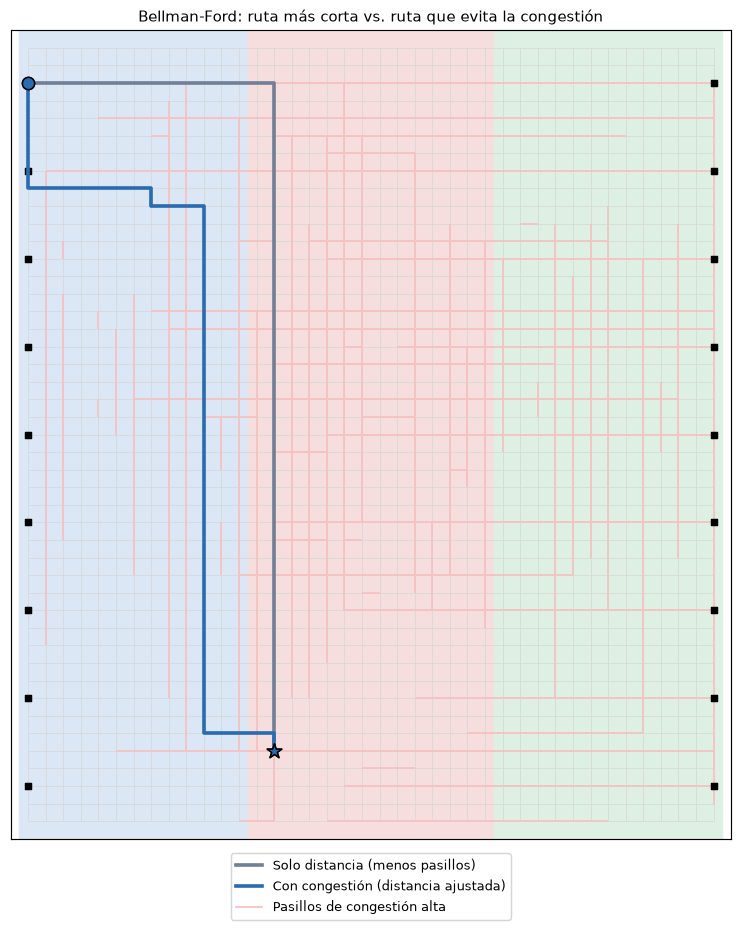
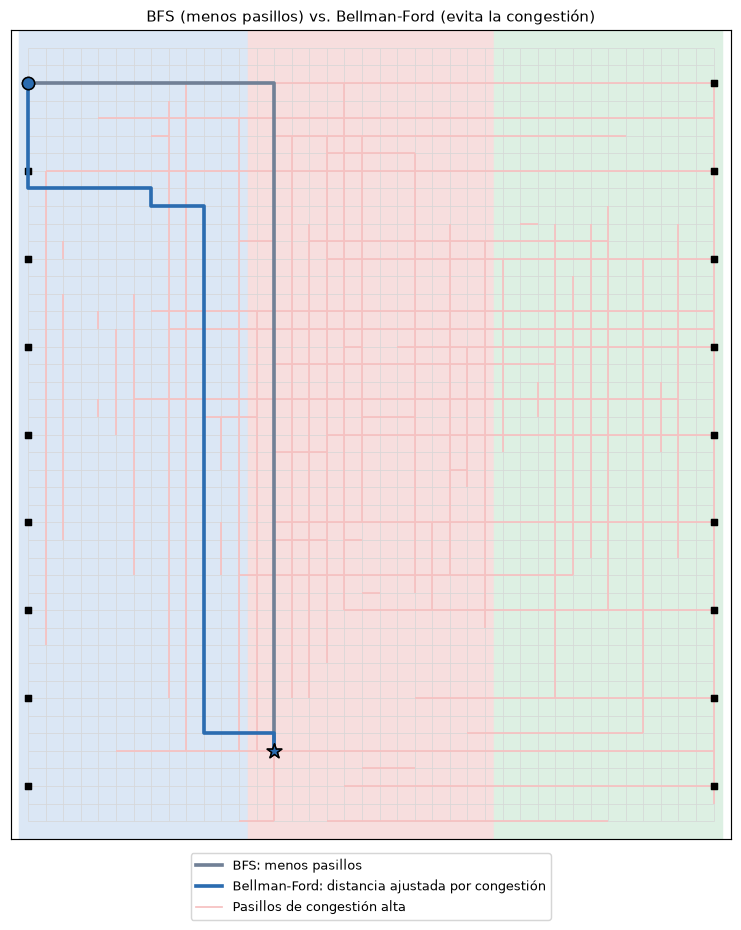
feat(demo): compare DFS vs Edmonds-Karp and BFS vs Bellman-Ford

Changed region(s): [[0.2483, 0.9043, 0.7449, 0.9978], [0.1862, 0.0, 0.807, 0.0312]]

diff --git a/scripts/demo.py b/scripts/demo.py
@@ -28,8 +28,8 @@ sys.path.insert(0, str(RAIZ / "scripts"))
 import matplotlib  # noqa: E402
 
 from kivaflow import config, grafo  # noqa: E402
-from kivaflow.caminos import bellman_ford, camino, camino_fw, floyd_warshall  # noqa: E402
-from kivaflow.flujo import ford_fulkerson, red  # noqa: E402
+from kivaflow.caminos import bellman_ford, bfs, camino, camino_fw, floyd_warshall  # noqa: E402
+from kivaflow.flujo import edmonds_karp, ford_fulkerson, red  # noqa: E402
 from kivaflow.mapa import COLOR_NIVEL, fondo, lineas, posiciones, recorrido  # noqa: E402
 from kivaflow.mochila import mochila_01  # noqa: E402
 from kivaflow.mst import fuerza_bruta, kruskal, prim  # noqa: E402
@@ -132,16 +132,19 @@ def demo_fuerza_bruta(d, mostrar):
 
 # ---------------------------------------------------------------------------- flujo
 def demo_flujo(d, mostrar):
-    titulo("Flujo máximo con Ford-Fulkerson: Recepción -> Despacho (hoja 11, ejercicio 2)")
+    titulo("Flujo máximo: Ford-Fulkerson (DFS) y Edmonds-Karp (BFS), Recepción -> Despacho (hoja 11)")
     cap_nivel = config.CAPACIDAD_OPERARIOS_MIN
     print("Capacidad de cada pasillo (operarios/min, en cada sentido): "
           + ", ".join(f"{n} = {c}" for n, c in cap_nivel.items()))
     print("Fuente: toda la zona de Recepción; sumidero: toda la zona de Despacho (superfuente y supersumidero).")
     cap = red(d.filas, cap_nivel, d.zona("Rec"), d.zona("Emp"))
-    t0 = time.perf_counter()
-    f = ford_fulkerson(cap)
-    ms = (time.perf_counter() - t0) * 1000
-    print(f"\n{'Iter.':>5}  {'Cuello':>6}  {'Flujo acumulado':>15}  Camino aumentante (DFS)")
+    res = {}
+    for nombre, algoritmo in (("Ford-Fulkerson (DFS)", ford_fulkerson), ("Edmonds-Karp (BFS)", edmonds_karp)):
+        t0 = time.perf_counter()
+        res[nombre] = (algoritmo(cap), (time.perf_counter() - t0) * 1000)
+    f, _ = res["Edmonds-Karp (BFS)"]
+    print("\nEdmonds-Karp, iteración por iteración (BFS toma siempre el camino con menos arcos):")
+    print(f"{'Iter.':>5}  {'Cuello':>6}  {'Flujo acumulado':>15}  Camino aumentante")
     acumulado = 0
     for i, (c, cuello) in enumerate(f.caminos, 1):
         acumulado += cuello
@@ -150,8 +153,13 @@ def demo_flujo(d, mostrar):
             print(f"{i:>5}  {cuello:>6}  {acumulado:>15}  {interior[0]} -> ... -> {interior[-1]} ({len(interior)} ubicaciones)")
         elif i == 9:
             print(f"{'...':>5}")
-    print(f"\nFlujo máximo: {f.valor} operarios/min, con {len(f.caminos)} caminos aumentantes en {ms:.0f} ms.")
-    print(f"Veces que un camino usó un arco inverso (cancelar flujo previo): {f.usos_inversos}.")
+    print(f"\n{'Variante':<22}{'Flujo':>6}{'Caminos':>9}{'Largo medio':>13}{'Arcos inversos':>16}{'ms':>7}")
+    for nombre, (r, ms) in res.items():
+        largo = sum(len(c) - 3 for c, _ in r.caminos) / len(r.caminos)
+        print(f"{nombre:<22}{r.valor:>6}{len(r.caminos):>9}{largo:>13.1f}{r.usos_inversos:>16}{ms:>7.0f}")
+    print("Las dos llegan al mismo flujo máximo: el método es el mismo y solo cambia cómo se busca el camino.")
+    print("Con BFS el número de iteraciones queda acotado por O(V · E), sin depender de las capacidades.")
+    print(f"\nFlujo máximo: {f.valor} operarios/min.")
     cols = Counter((d.nodos[u]["Columna"], d.nodos[v]["Columna"]) for u, v, _ in f.corte)
     print(f"Corte mínimo: {len(f.corte)} pasillos, capacidad total {sum(c for *_, c in f.corte)} "
           f"(= flujo máximo, teorema flujo máximo / corte mínimo).")
@@ -166,44 +174,53 @@ def demo_flujo(d, mostrar):
         recorrido(ax, d.pos, c[1:-1], color="#38a169", ancho=1.2)
     lineas(ax, d.pos, f.corte, color="#e53e3e", ancho=3.5, z=5)
     ax.plot([], [], color="#e53e3e", linewidth=3.5, label="Pasillos del corte mínimo")
-    ax.plot([], [], color="#38a169", linewidth=1.2, label="Primeros 5 caminos aumentantes")
+    ax.plot([], [], color="#38a169", linewidth=1.2, label="Primeros 5 caminos aumentantes (Edmonds-Karp)")
     ax.legend(loc="upper center", bbox_to_anchor=(0.5, -0.01), fontsize=9)
     guardar(fig, "flujo_maximo.png", mostrar)
 
 
 # ----------------------------------------------------------------------------- ruta
 def demo_ruta(d, mostrar):
-    titulo("Ruta de un operario con Bellman-Ford (hoja 13, ejercicios 1 y 3)")
+    titulo("Ruta de un operario: BFS (línea base) vs. Bellman-Ford con congestión (hoja 13)")
     origen = "02-00"  # primer muelle de Recepción
     destino = next(k for k, n in d.nodos.items() if n["SKU"] == "SKU0001")  # el producto más pedido
     print(f"Origen: muelle {origen}. Destino: rack {destino} (SKU0001, el producto más pedido).")
-    rutas = {}
-    for peso, nombre in (("Distancia_m", "solo distancia"), ("Distancia_Ajustada_m", "con congestión")):
-        t0 = time.perf_counter()
-        b = bellman_ford(list(d.nodos), d.arcos(peso), origen)
-        ms = (time.perf_counter() - t0) * 1000
-        c = camino(b.padre, destino)
+
+    def describir(c):
         niveles = Counter(d.nivel[(u, v)] for u, v in zip(c, c[1:]))
-        metros = 1.2 * (len(c) - 1)
         ajustado = sum(1.2 * config.FACTOR_CONGESTION[d.nivel[(u, v)]] for u, v in zip(c, c[1:]))
-        rutas[nombre] = c
-        print(f"\nPeso «{peso}» ({nombre}):")
-        print(f"  Rondas de relajación: {b.rondas} de V - 1 = {len(d.nodos) - 1} posibles (se detiene cuando una ronda no mejora nada)")
-        print(f"  Relajaciones: {b.relajaciones} · ¿ciclo negativo?: {'sí' if b.ciclo_negativo else 'no'} · {ms:.0f} ms")
-        print(f"  Ruta: {len(c) - 1} pasillos = {metros:.1f} m reales, {ajustado:.2f} m ajustados, "
+        print(f"  Ruta: {len(c) - 1} pasillos = {1.2 * (len(c) - 1):.1f} m reales, {ajustado:.2f} m ajustados, "
               f"{ajustado / config.VELOCIDAD_M_S:.0f} s a {config.VELOCIDAD_M_S} m/s con congestión")
         print("  Pasillos por congestión: " + ", ".join(f"{n} {niveles[n]}" for n in ("Baja", "Media", "Alta")))
+
+    rutas = {}
+    t0 = time.perf_counter()
+    dist, padre = bfs(list(d.nodos), d.arcos("Distancia_m"), origen)
+    ms = (time.perf_counter() - t0) * 1000
+    rutas["bfs"] = camino(padre, destino)
+    print(f"\nBFS (cada pasillo vale 1; no ve la congestión) · O(V + E) · {ms:.0f} ms:")
+    print(f"  Ubicaciones alcanzadas: {len(dist)} de {len(d.nodos)}")
+    describir(rutas["bfs"])
+
+    t0 = time.perf_counter()
+    b = bellman_ford(list(d.nodos), d.arcos("Distancia_Ajustada_m"), origen)
+    ms = (time.perf_counter() - t0) * 1000
+    rutas["bf"] = camino(b.padre, destino)
+    print(f"\nBellman-Ford con «Distancia_Ajustada_m» · O(V · E) · {ms:.0f} ms:")
+    print(f"  Rondas de relajación: {b.rondas} de V - 1 = {len(d.nodos) - 1} posibles (se detiene cuando una ronda no mejora nada)")
+    print(f"  Relajaciones: {b.relajaciones} · ¿ciclo negativo?: {'sí' if b.ciclo_negativo else 'no'}")
+    describir(rutas["bf"])
 
     print("\nCiclo negativo (ejercicio 3): con pesos positivos no puede haber. Prueba con un ciclo de 3 nodos:")
     prueba = bellman_ford(["A", "B", "C"], [("A", "B", 1), ("B", "C", -2), ("C", "A", -1)], "A")
     print(f"  A->B 1, B->C -2, C->A -1 (suma -2): ¿ciclo negativo? {'sí' if prueba.ciclo_negativo else 'no'}")
 
     fig, ax = plt.subplots(figsize=(9, 10))
-    fondo(ax, d.nodos, d.pos, "Bellman-Ford: ruta más corta vs. ruta que evita la congestión", grilla=d.aristas())
+    fondo(ax, d.nodos, d.pos, "BFS (menos pasillos) vs. Bellman-Ford (evita la congestión)", grilla=d.aristas())
     altas = [(u, v) for (u, v), n in d.nivel.items() if n == "Alta" and u < v]
     lineas(ax, d.pos, altas, color="#f6c1c1", ancho=1.2)
-    recorrido(ax, d.pos, rutas["solo distancia"], "#718096", etiqueta="Solo distancia (menos pasillos)")
-    recorrido(ax, d.pos, rutas["con congestión"], "#2b6cb0", etiqueta="Con congestión (distancia ajustada)")
+    recorrido(ax, d.pos, rutas["bfs"], "#718096", etiqueta="BFS: menos pasillos")
+    recorrido(ax, d.pos, rutas["bf"], "#2b6cb0", etiqueta="Bellman-Ford: distancia ajustada por congestión")
     ax.plot([], [], color="#f6c1c1", linewidth=1.2, label="Pasillos de congestión alta")
     ax.legend(loc="upper center", bbox_to_anchor=(0.5, -0.01), fontsize=9)
     guardar(fig, "ruta_bellman_ford.png", mostrar)

diff --git a/README.md b/README.md
@@ -13,14 +13,14 @@ Proyecto del curso **Complejidad Algorítmica (1ACC0184)**, Universidad Peruana 
 | Dataset (layout + tráfico simulado) | ✅ reproducible, con tests |
 | Pedidos reales de Instacart | 🧪 script listo; falta correrlo con los datos de Kaggle |
 | MST: Kruskal (con UFDS) y Prim | ✅ a mano, comparados con NetworkX · demo: `python scripts/demo_mst.py` |
-| MST por fuerza bruta, Ford-Fulkerson, Bellman-Ford, Floyd-Warshall, mochila 0/1 | ✅ a mano, con tests · demo: `python scripts/demo.py todo` |
+| BFS, Bellman-Ford, Ford-Fulkerson y Edmonds-Karp, Floyd-Warshall, MST por fuerza bruta, mochila 0/1 | ✅ a mano, con tests · demo: `python scripts/demo.py todo` |
 | GUI en Streamlit (con enlace público) | 🔜 |
 
 ## Ramas
 
 | Rama | Qué tiene |
 |---|---|
-| `hito2` | Avance paso a paso desde el TB1: dataset, MST (Kruskal y Prim) y los algoritmos de la unidad 2 (flujo, Bellman-Ford, Floyd-Warshall, mochila), con demo en matplotlib. Va con el informe del hito 2 |
+| `hito2` | Avance paso a paso desde el TB1: dataset, MST (Kruskal y Prim) BFS, Bellman-Ford, Edmonds-Karp y los demás algoritmos de la unidad 2, con demo en matplotlib. Va con el informe del hito 2 |
 | `tb2` | Todo lo avanzado para el trabajo final: BFS, Bellman-Ford, Edmonds-Karp, simulación y la app web |
 | `main` | Igual que `tb2` por ahora; de aquí sale la app publicada |
 
@@ -49,8 +49,8 @@ python scripts/demo.py flujo --mostrar   # una sola, y además abre la ventana
 |---|---|---|---|---|
 | `mst` | 10 | Kruskal (UFDS) y Prim (heap) | Red de servicio con la menor distancia ajustada | 1799 pasillos, 2448,78 m |
 | `fuerza-bruta` | 10, ej. 1 | MST probando todos los subconjuntos | Valida Kruskal en un sector de 3 × 4 | 12 376 subconjuntos, mismo costo 13,20 |
-| `flujo` | 11 | Ford-Fulkerson (DFS) y corte mínimo | Cuántos operarios/min pasan de Recepción a Despacho y qué pasillos lo limitan | 73 operarios/min; el corte son 45 pasillos dentro de Picking |
-| `ruta` | 13 | Bellman-Ford | Ruta que evita la congestión frente a la más corta | Los mismos 52 pasillos (62,4 m), pero 1 de congestión alta en vez de 48: 65 s frente a 89 s |
+| `flujo` | 11 | Ford-Fulkerson (DFS) y Edmonds-Karp (BFS), con corte mínimo | Cuántos operarios/min pasan de Recepción a Despacho y qué pasillos lo limitan | 73 operarios/min con los dos (72 caminos con DFS, 53 con BFS); el corte son 45 pasillos dentro de Picking |
+| `ruta` | 13 | BFS (línea base) y Bellman-Ford | Ruta que evita la congestión frente a la de menos pasillos | Los mismos 52 pasillos (62,4 m), pero 1 de congestión alta en vez de 48: 65 s frente a 89 s |
 | `floyd` | 13 | Floyd-Warshall | Distancias entre todas las ubicaciones de un sector de 10 × 10 de Picking | Matriz 100 × 100; coincide con Bellman-Ford |
 | `mochila` | 12 | Mochila 0/1 (DP) | Qué productos lleva un robot de 20 kg en el primer viaje | Urgencia 40 con 6 de 10 productos |
 
